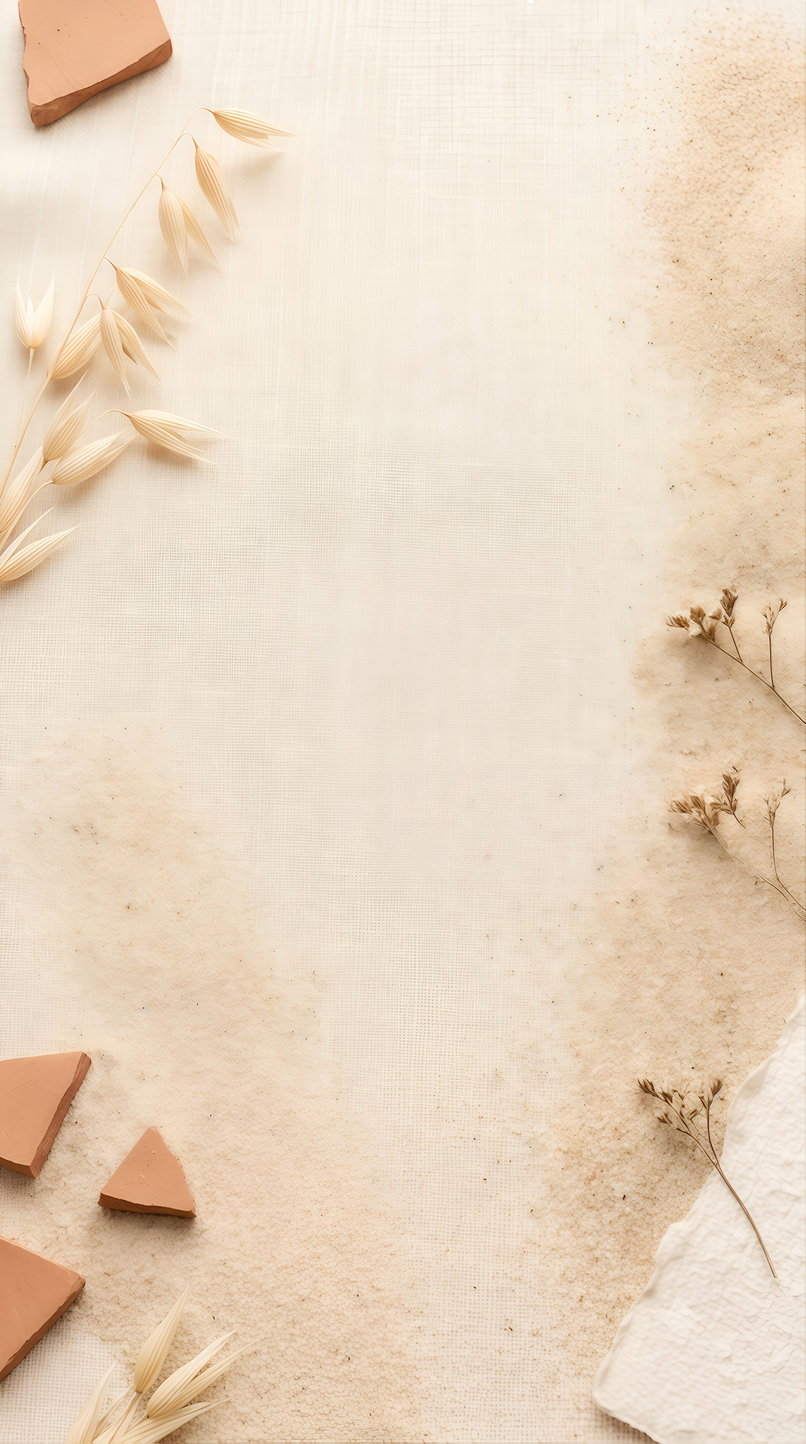
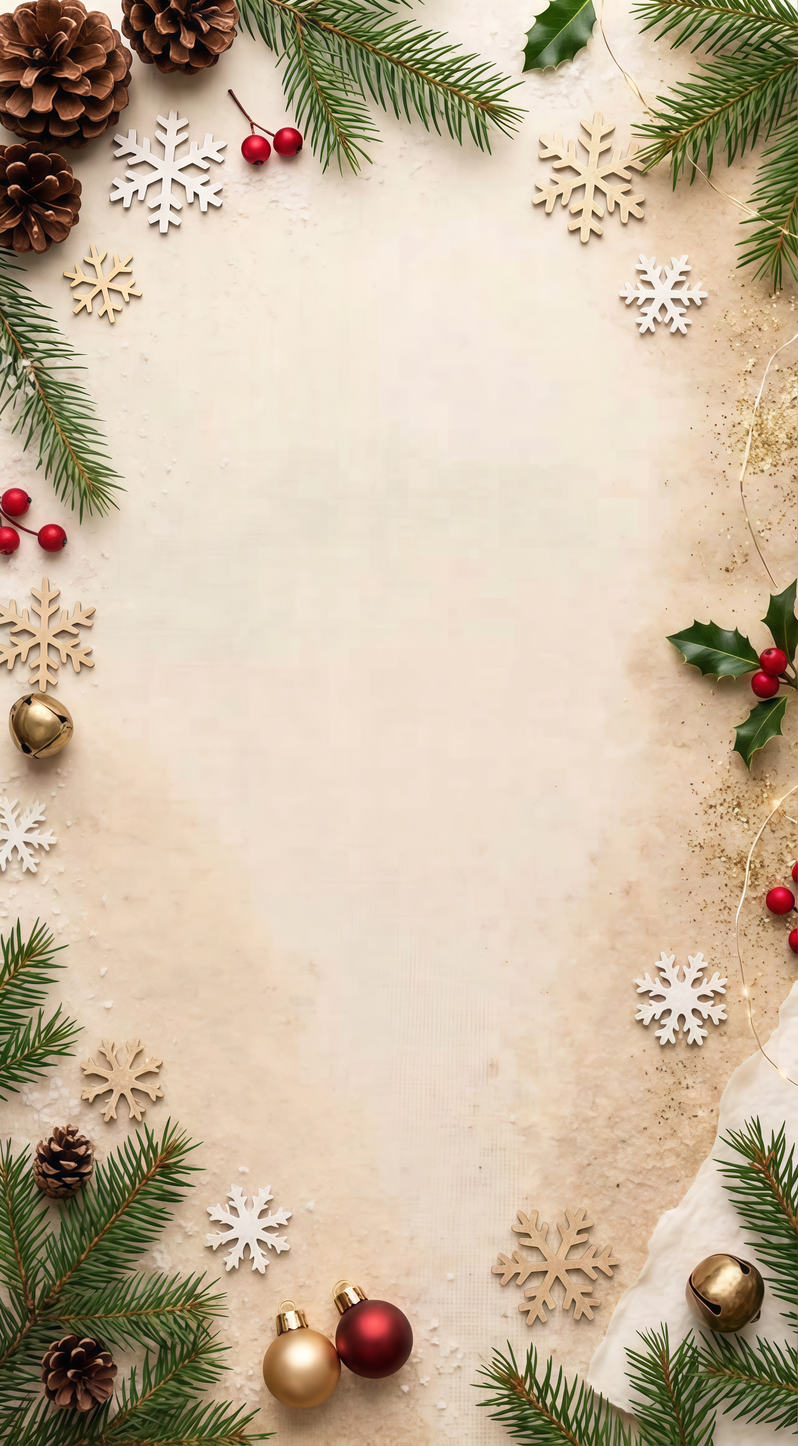
feat: update modal component to use new image property and adjust font size

diff --git a/src/app/app.ts b/src/app/app.ts
@@ -7,8 +7,9 @@ import { ModalComponent } from './components/modal/modal.component';
 
 export interface SocialLink {
   name: string;
-  value: string;       // URL de redirección
-  icon: string;         // nombre de archivo local o URL de imagen
+  value: string;       // URL de redirección o información
+  img: string;       //  nombre de archivo local para imagen
+  icon: string;         // nombre de archivo local o URL de imagen para icono
   isIconFile: boolean;  // true = archivo local en assets/icons, false = URL externa
   isVisible: boolean;      // controla si el link se muestra en la UI
   isModal: boolean;      // controla si mostrar en un modal o un link de redireccion

diff --git a/src/app/components/modal/modal.component.ts b/src/app/components/modal/modal.component.ts
@@ -17,11 +17,8 @@ export class ModalComponent {
   copiedStatus = signal('\u00A0');
 
   open(link: SocialLink): void {
-    this.imageSrc = 'images/' + link.icon;
+    this.imageSrc = 'images/' + link.img;
     this.value = link.value;
-
-    // this.imageSrc = 'images/' + link.value;
-    // this.value = "3108998828";
 
     this.visible.set(true);
   }

diff --git a/src/app/components/modal/modal.component.css b/src/app/components/modal/modal.component.css
@@ -44,7 +44,7 @@
   gap: 8px;
   color: rgb(0, 0, 0);
   font-weight: bold;
-  font-size: clamp(20px, 5vw, 38px);
+  font-size: clamp(29px, 5vw, 38px);
   text-align: center;
 }
 
